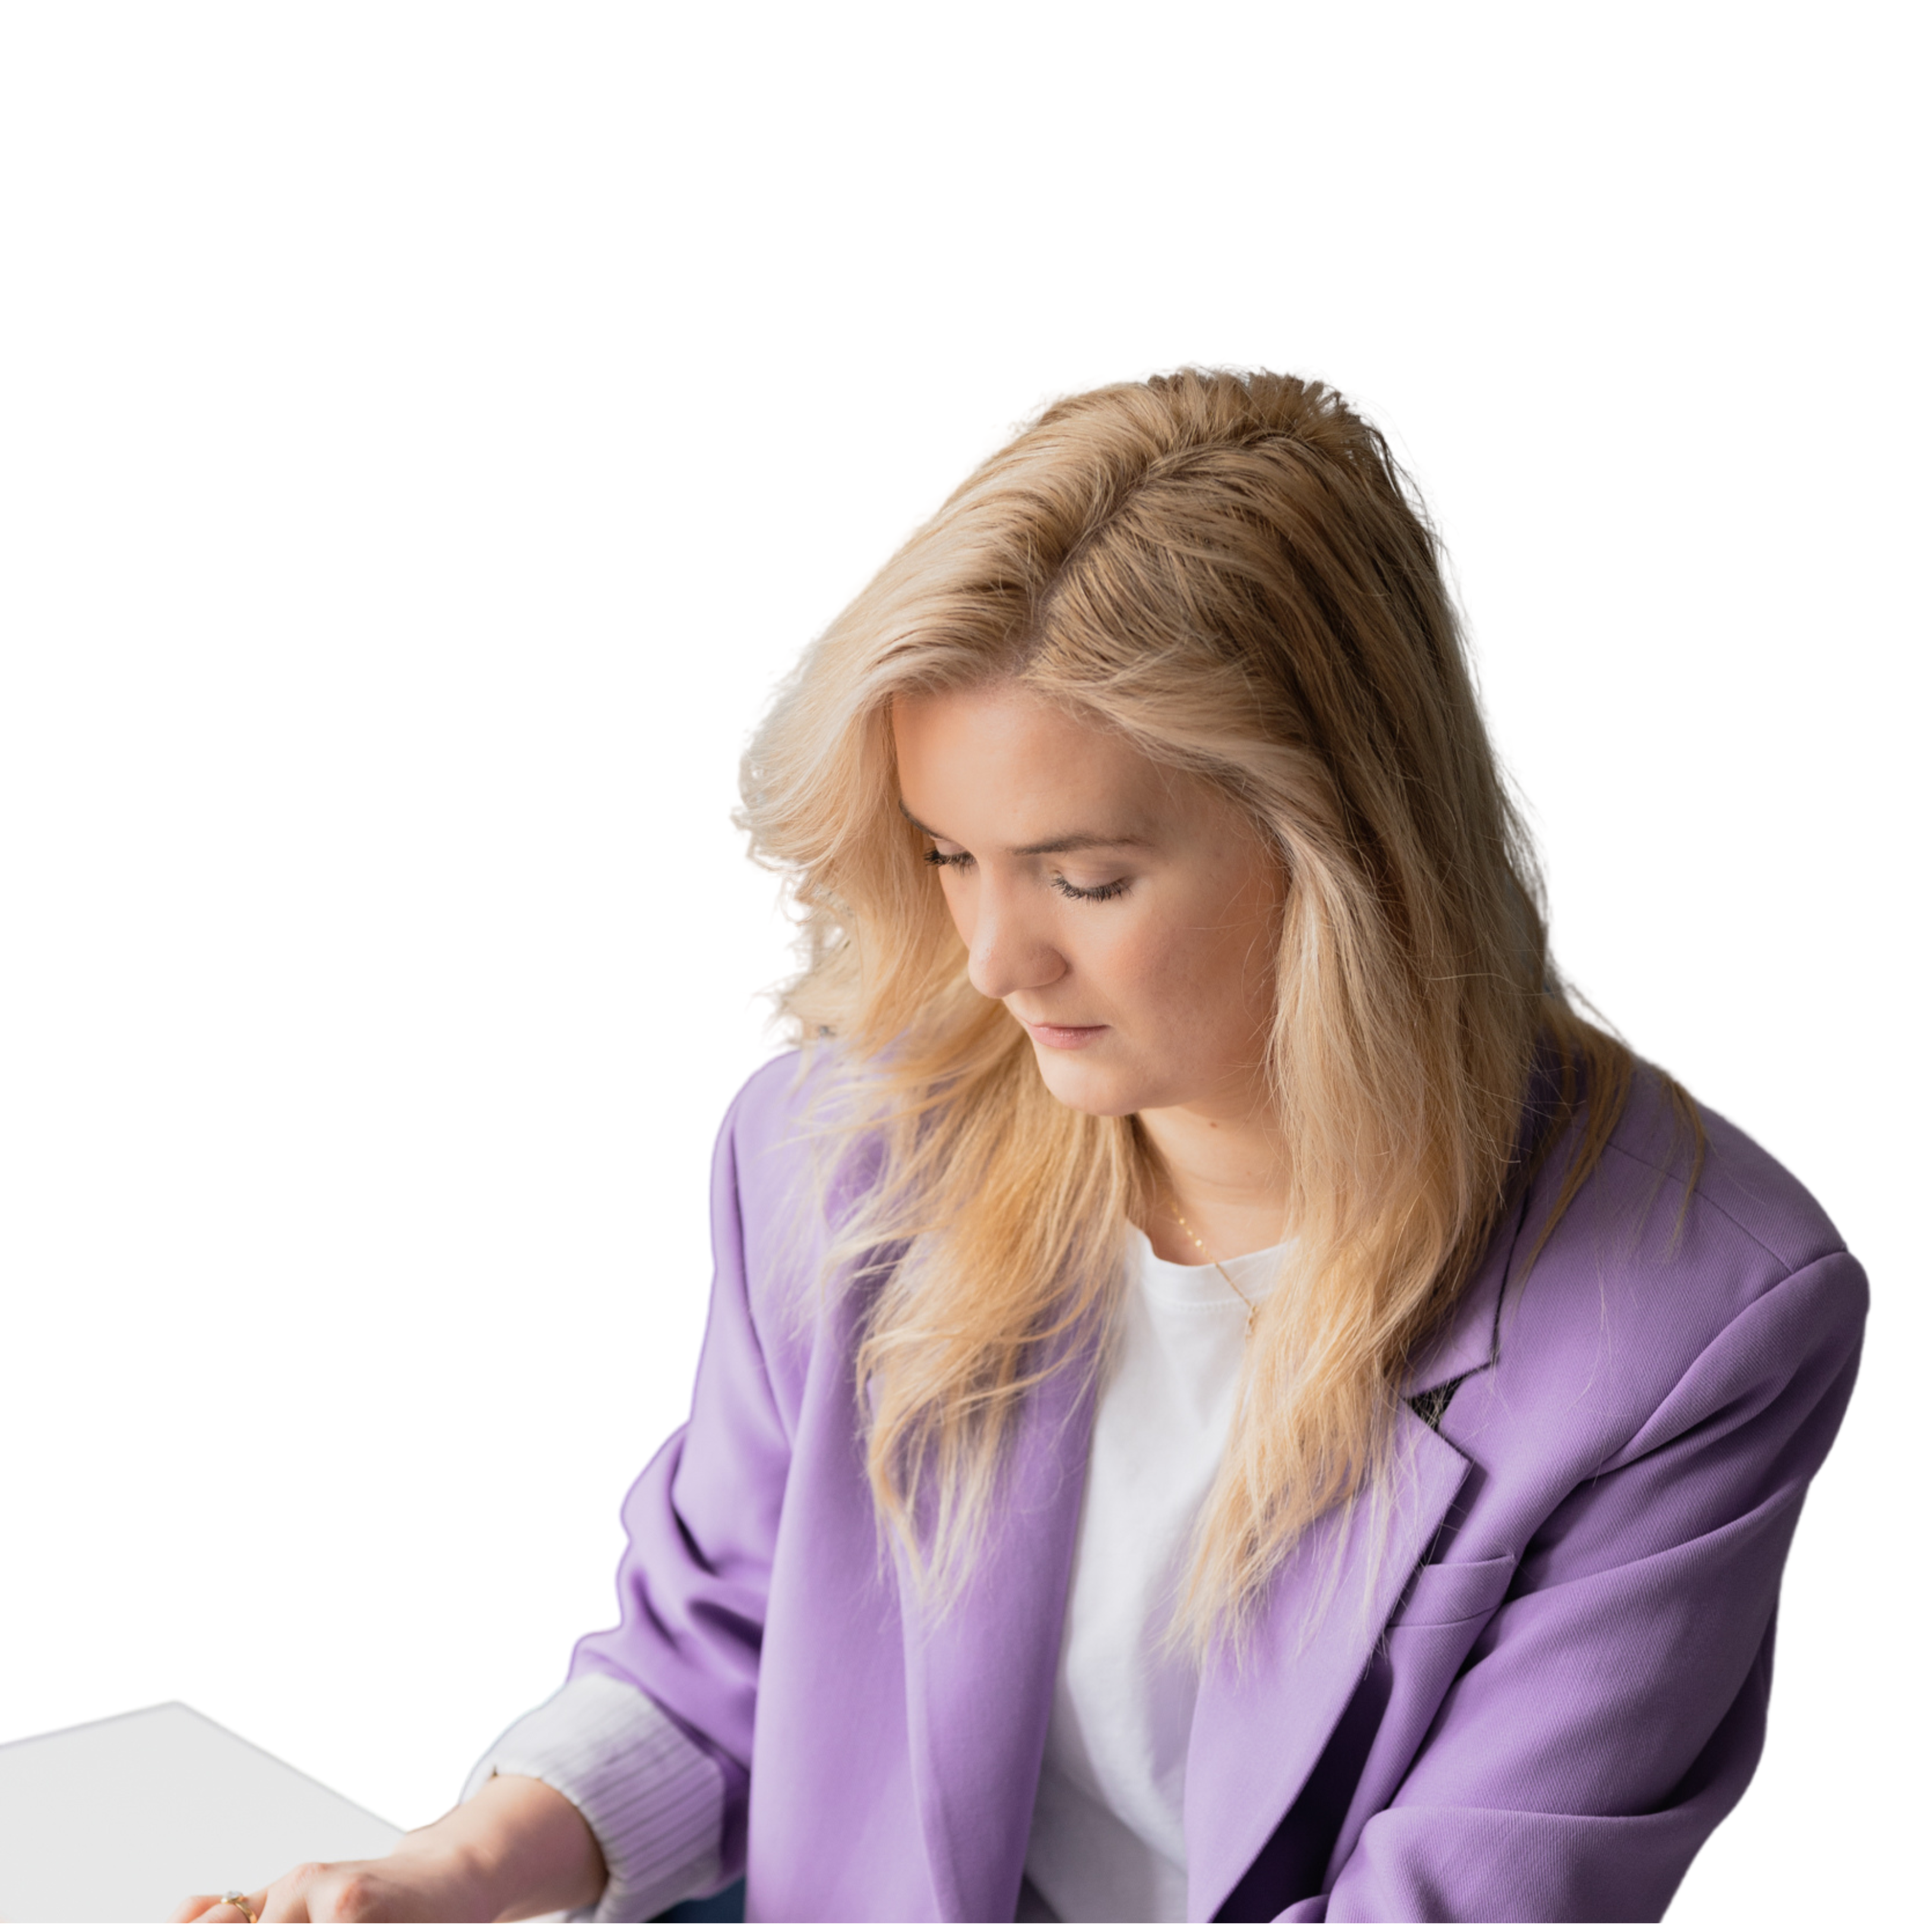
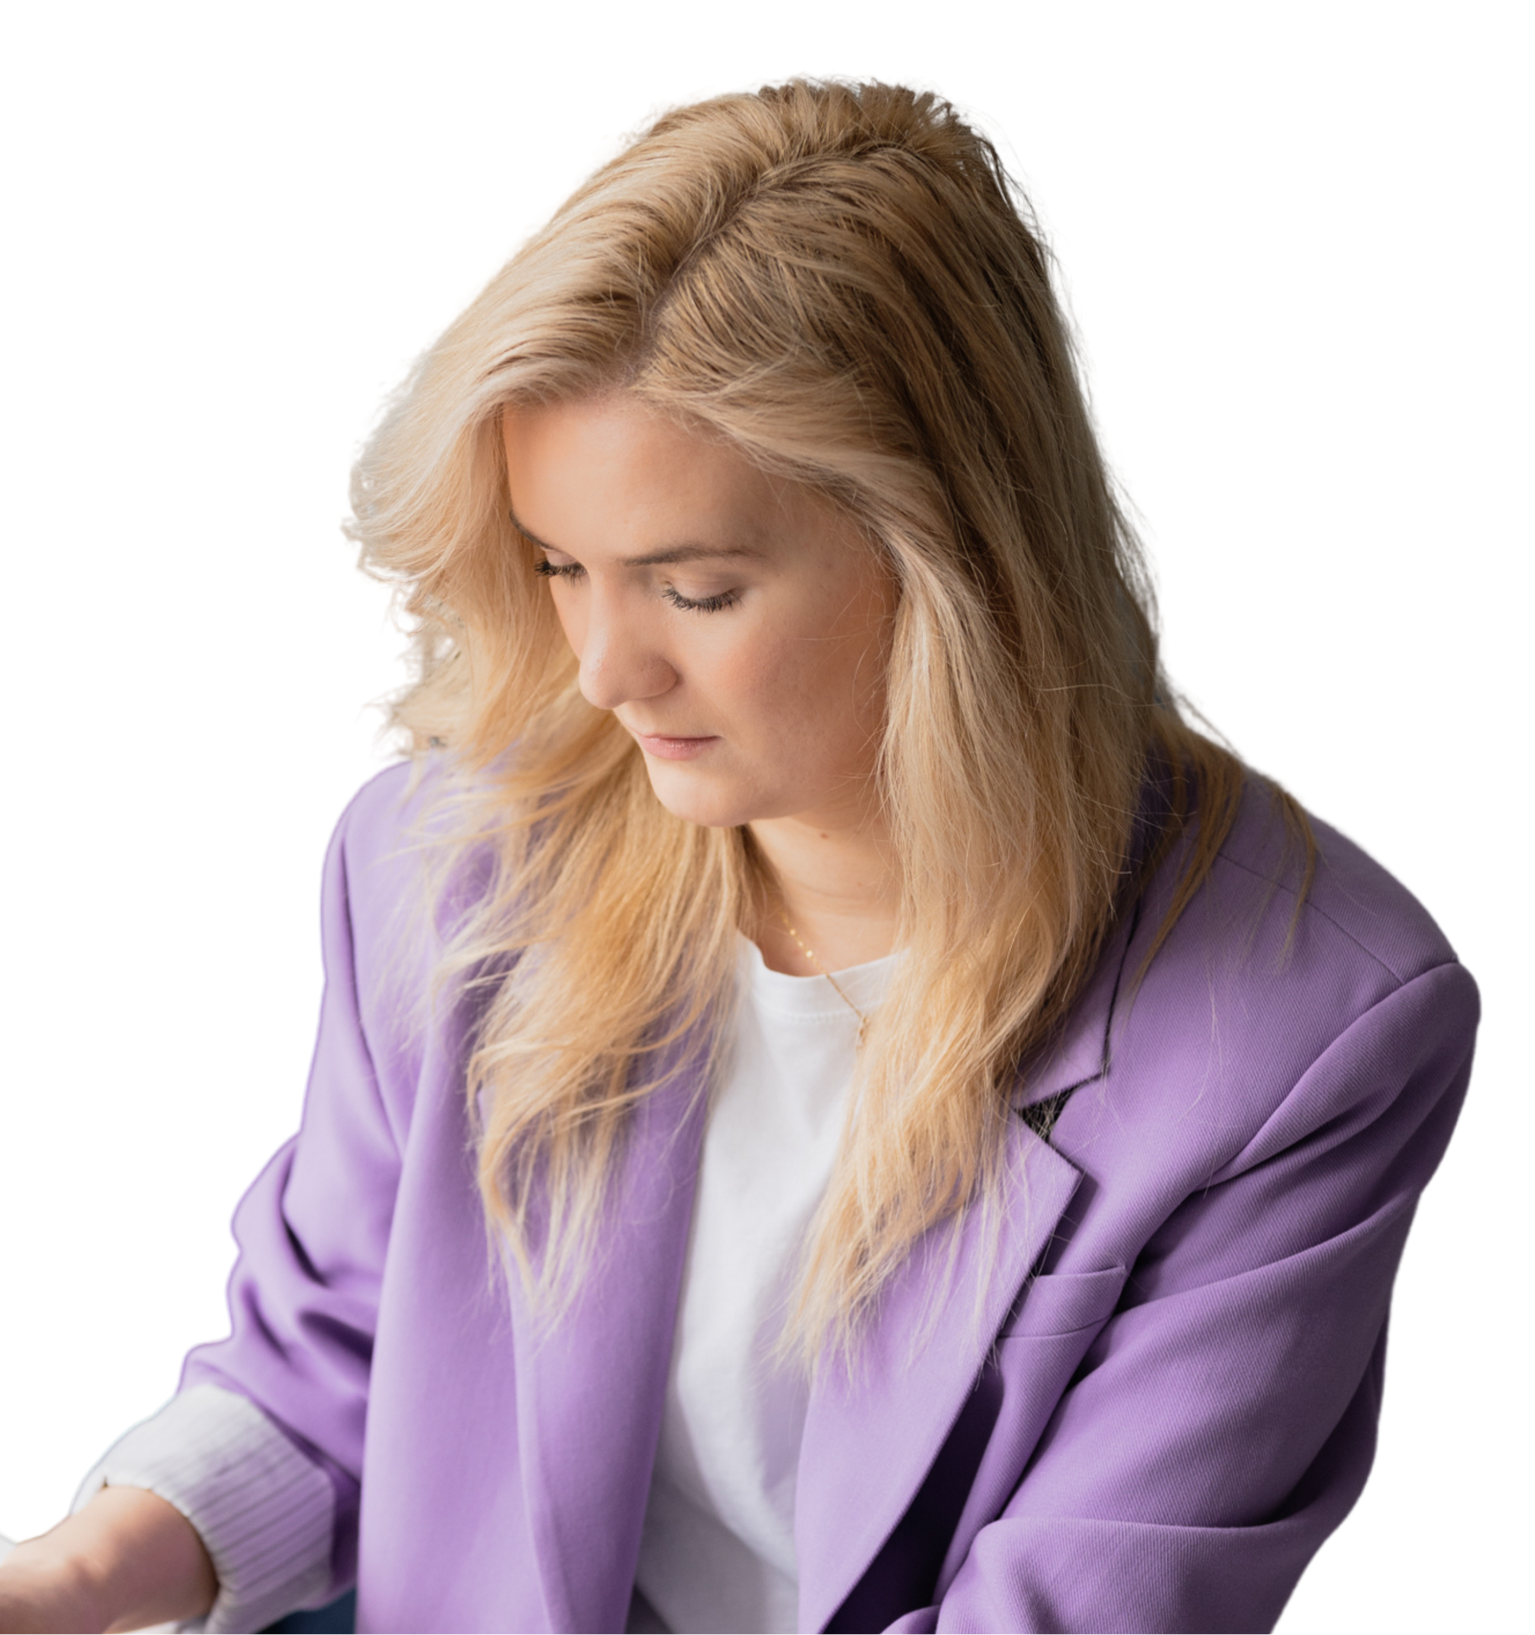
Fix issues

diff --git a/src/components/CustomBanner/index.tsx b/src/components/CustomBanner/index.tsx
@@ -25,24 +25,24 @@ const CustomBanner = ({
   btnText,
   image,
   imgStyle = "lg:absolute bottom-0 right-[-50px]",
-  btnUrl 
+  btnUrl,
 }: Props): JSX.Element => {
-  const subtitleClass = "text-adaSubtitle font-medium leading-tight py-2";
+  const subtitleClass = "text-adaSubtitle font-medium leading-tight py-2"
 
   return (
-    <div className="flex xl:px-6 flex-col items-center lg:flex-row text-ada-blue relative min-h-[740px] max-w-[1280px] mx-auto">
-        <div className={paragraphStyle}>
-          <h1 className="text-adaTitle font-bold pb-8 lg:w-[704px] {titleStyle}">{title}</h1>
-          <p className={subtitleClass}>{paragraph1}</p>
-          <p className={subtitleClass}>{paragraph2}</p>
-          <p className={subtitleClass}>{paragraph3}</p>
-          <div className="mt-[14px]">
-          {actionButton && <Button type="button" text={btnText} url={btnUrl}/>}
-          </div>
+    <div className="flex xl:px-6 flex-col items-center lg:flex-row text-ada-blue relative min-h-[560px] max-w-[1280px] mx-auto">
+      <div className={paragraphStyle}>
+        <h1 className="text-adaTitle font-bold pb-8 lg:w-[704px] {titleStyle}">
+          {title}
+        </h1>
+        <p className={subtitleClass}>{paragraph1}</p>
+        <p className={subtitleClass}>{paragraph2}</p>
+        <p className={subtitleClass}>{paragraph3}</p>
+        <div className="mt-[14px]">
+          {actionButton && <Button type="button" text={btnText} url={btnUrl} />}
         </div>
-        <div className={imgStyle}>
-          {image}
-        </div>
+      </div>
+      <div className={imgStyle}>{image}</div>
     </div>
   )
 }

diff --git a/src/pages/index.tsx b/src/pages/index.tsx
@@ -42,7 +42,7 @@ const IndexPage = (): JSX.Element => {
               quality={100}
             />
           }
-          imgStyle="max-w-[592px]"
+          imgStyle="max-w-[592px] self-end"
           paragraphStyle="max-w-[592px] px-2 md:px-5"
           btnUrl="#uslugi"
         />
